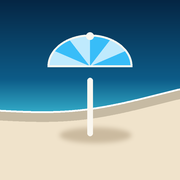
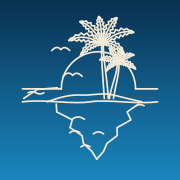
Swap the parasol mark for the line-art island
The palm fronds are generated rather than hand-drawn: each one is a serrated
leaf with a midrib, widest at mid-length so the crown reads open instead of
collapsing into a blob at the trunk.

Two variants, because the mark renders as small as 26px in the rail. The
detailed drawing drives the icons; a compact version - sun, one palm, the
waterline and a short reflection - goes inline, since gulls and a second
palm turn to mush at that size.

Icons keep the old deep-blue gradient and cream ink so the app still looks
like itself on the home screen. Apple touch icon is square now: iOS masks
it anyway, and baked-in corners double up. Service worker version goes to
v3 so installed phones stop serving the old icons.

diff --git a/index.html b/index.html
@@ -2486,7 +2486,7 @@ svg.leaflet-image-layer.leaflet-interactive path {
 <div id="loginScreen">
   <div class="login-card">
     <div class="login-head">
-      <div class="lockup"><svg class="mark" viewBox="0 0 32 32" fill="none" aria-hidden="true"><rect x="1" y="1" width="30" height="30" stroke="currentColor" stroke-width="1.5"/><path d="M1 21 L11 21 L20 12 L31 12" stroke="#3987e5" stroke-width="1.5"/><rect x="4.5" y="24.5" width="4" height="3" fill="currentColor"/><rect x="11.5" y="24.5" width="4" height="3" fill="currentColor"/><rect x="18.5" y="24.5" width="4" height="3" fill="#3987e5"/><rect x="23.5" y="15.5" width="4" height="3" fill="currentColor"/><circle cx="8" cy="8" r="3.25" stroke="currentColor" stroke-width="1.5"/></svg>
+      <div class="lockup"><svg class="mark" viewBox="0 0 32 32" fill="none" stroke="currentColor" stroke-width="1.6" stroke-linecap="round" stroke-linejoin="round" aria-hidden="true"><path d="M7 16.5A8.5 8.5 0 0 1 24 16.5" stroke="#3987e5"/><path d="M2.5 16.5H7" stroke="#3987e5"/><path d="M24 16.5H29.5" stroke="#3987e5"/><path d="M10 21Q15 17.4 19.5 19.4Q22 20.3 24.5 21"/><path d="M3 21H29"/><path d="M20.2 20.2C19.6 16 19.3 12 19.2 9.2"/><path d="M19.2 9.2q-6-1.4-7.6 2.6"/><path d="M19.2 9.2q-5-4.2-1.8-7.4"/><path d="M19.2 9.2q2.4-4.6 6.2-2.6"/><path d="M19.2 9.2q5.6 1.4 5.6 5.4"/><path d="M12.5 23.4q3 3 0.5 5q-2 2.4 4 3.4"/><path d="M23 23.4q-3 3-0.5 5q2 2.4-5.5 3.4"/><path d="M14.6 26.6q2.6-1.8 5.2 0"/></svg>
         <div class="wordmark">Beach&nbsp;Body&nbsp;Map<span>Shore Operations</span></div>
       </div>
       <p class="login-title">Sun bed mapping, live status and daily takings for the whole shoreline.</p>
@@ -2509,7 +2509,7 @@ svg.leaflet-image-layer.leaflet-interactive path {
 
 <div id="splash">
   <div class="sp-stack">
-    <div class="sp-mark" id="splashMark"><svg  viewBox="0 0 32 32" fill="none" aria-hidden="true"><rect x="1" y="1" width="30" height="30" stroke="currentColor" stroke-width="1.6" rx="4"/><path d="M1 21 L11 21 L20 12 L31 12" stroke="currentColor" stroke-width="1.6" opacity=".55"/><rect x="4.5" y="24.5" width="4" height="3" rx="1" fill="currentColor"/><rect x="11.5" y="24.5" width="4" height="3" rx="1" fill="currentColor"/><rect x="18.5" y="24.5" width="4" height="3" rx="1" fill="currentColor" opacity=".55"/><rect x="23.5" y="15.5" width="4" height="3" rx="1" fill="currentColor"/><circle cx="8" cy="8" r="3.25" stroke="currentColor" stroke-width="1.6"/></svg></div>
+    <div class="sp-mark" id="splashMark"><svg viewBox="0 0 32 32" fill="none" stroke="currentColor" stroke-width="1.6" stroke-linecap="round" stroke-linejoin="round" aria-hidden="true"><path d="M7 16.5A8.5 8.5 0 0 1 24 16.5"/><path d="M2.5 16.5H7"/><path d="M24 16.5H29.5"/><path d="M10 21Q15 17.4 19.5 19.4Q22 20.3 24.5 21"/><path d="M3 21H29"/><path d="M20.2 20.2C19.6 16 19.3 12 19.2 9.2"/><path d="M19.2 9.2q-6-1.4-7.6 2.6"/><path d="M19.2 9.2q-5-4.2-1.8-7.4"/><path d="M19.2 9.2q2.4-4.6 6.2-2.6"/><path d="M19.2 9.2q5.6 1.4 5.6 5.4"/><path d="M12.5 23.4q3 3 0.5 5q-2 2.4 4 3.4"/><path d="M23 23.4q-3 3-0.5 5q2 2.4-5.5 3.4"/><path d="M14.6 26.6q2.6-1.8 5.2 0"/></svg></div>
     <div class="sp-word">Beach&nbsp;Body&nbsp;Map<span>Shore Operations</span></div>
     <div class="sp-bar"><i></i></div>
   </div>
@@ -2518,7 +2518,7 @@ svg.leaflet-image-layer.leaflet-interactive path {
 <div id="app">
 
   <aside class="rail">
-    <div class="rail-brand"><svg class="mark" viewBox="0 0 32 32" fill="none" aria-hidden="true"><rect x="1" y="1" width="30" height="30" stroke="currentColor" stroke-width="1.6" rx="4"/><path d="M1 21 L11 21 L20 12 L31 12" stroke="currentColor" stroke-width="1.6" opacity=".55"/><rect x="4.5" y="24.5" width="4" height="3" rx="1" fill="currentColor"/><rect x="11.5" y="24.5" width="4" height="3" rx="1" fill="currentColor"/><rect x="18.5" y="24.5" width="4" height="3" rx="1" fill="currentColor" opacity=".55"/><rect x="23.5" y="15.5" width="4" height="3" rx="1" fill="currentColor"/><circle cx="8" cy="8" r="3.25" stroke="currentColor" stroke-width="1.6"/></svg></div>
+    <div class="rail-brand"><svg class="mark" viewBox="0 0 32 32" fill="none" stroke="currentColor" stroke-width="1.6" stroke-linecap="round" stroke-linejoin="round" aria-hidden="true"><path d="M7 16.5A8.5 8.5 0 0 1 24 16.5"/><path d="M2.5 16.5H7"/><path d="M24 16.5H29.5"/><path d="M10 21Q15 17.4 19.5 19.4Q22 20.3 24.5 21"/><path d="M3 21H29"/><path d="M20.2 20.2C19.6 16 19.3 12 19.2 9.2"/><path d="M19.2 9.2q-6-1.4-7.6 2.6"/><path d="M19.2 9.2q-5-4.2-1.8-7.4"/><path d="M19.2 9.2q2.4-4.6 6.2-2.6"/><path d="M19.2 9.2q5.6 1.4 5.6 5.4"/><path d="M12.5 23.4q3 3 0.5 5q-2 2.4 4 3.4"/><path d="M23 23.4q-3 3-0.5 5q2 2.4-5.5 3.4"/><path d="M14.6 26.6q2.6-1.8 5.2 0"/></svg></div>
     <nav class="rail-nav">
       <button class="tn-btn active" data-view="overview"><svg viewBox="0 0 24 24" fill="none" stroke="currentColor" stroke-width="1.9" stroke-linecap="round" stroke-linejoin="round"><path d="M4 10.5 12 4l8 6.5V20a1 1 0 0 1-1 1h-4v-6H9v6H5a1 1 0 0 1-1-1z"/></svg><span class="tip">Overview</span></button>
       <button class="tn-btn" data-view="map"><svg viewBox="0 0 24 24" fill="none" stroke="currentColor" stroke-width="1.9" stroke-linecap="round" stroke-linejoin="round"><path d="M9 4 3 6.5v13L9 17l6 2.5 6-2.5v-13L15 6.5 9 4z"/><path d="M9 4v13M15 6.5v13"/></svg><span class="tip">Beach map</span></button>

diff --git a/sw.js b/sw.js
@@ -3,7 +3,7 @@
    the whole thing runs with no signal at all. That matters: the staff using
    this are standing on sand, and Materada does not have reliable coverage.   */
 
-const VERSION = 'bbm-v2';
+const VERSION = 'bbm-v3';
 const SHELL   = VERSION + '-shell';
 
 /* Everything needed to cold-start the app with the network switched off. */
